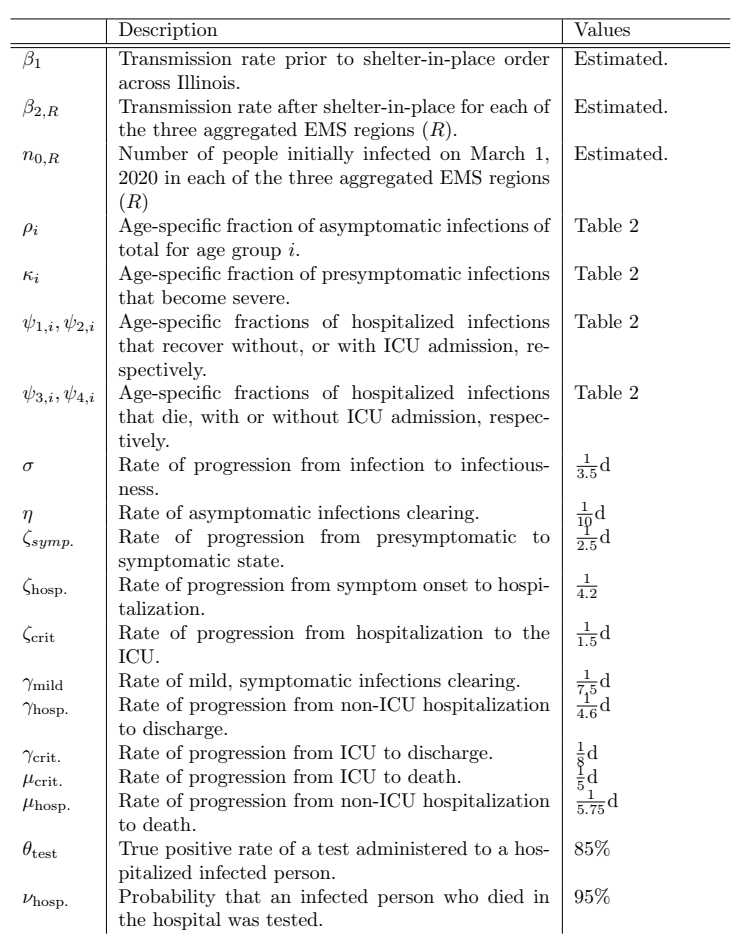
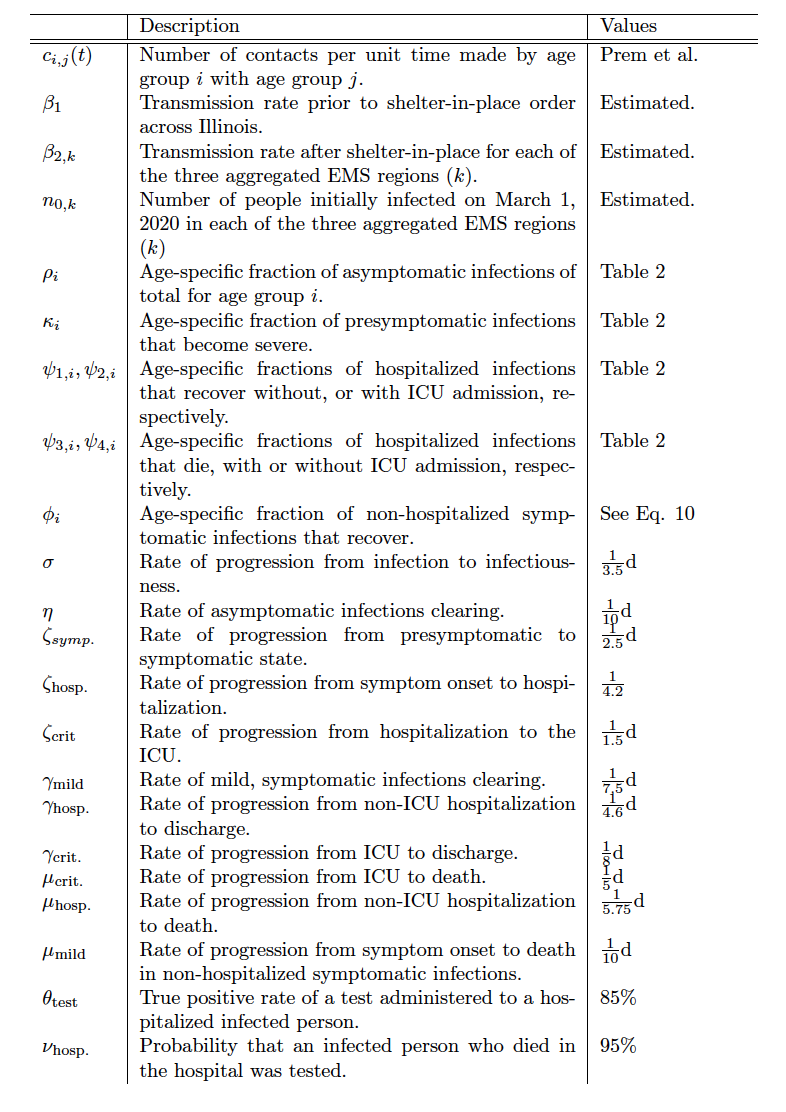
updates to account for outside-of-hospital deaths

diff --git a/Parameters/README.md b/Parameters/README.md
@@ -2,7 +2,7 @@
 
 We informed the value of fixed parameters using recent literature on viral incubation period<sup>1,2,3,4</sup>, serial interval<sup>3,5,6</sup>, infectiousness of mildly symptomatic people<sup>7</sup>, asymptomatic infections<sup>8</sup>, infection fatality rate<sup>9</sup>, case fatality rate<sup>9</sup>, and PCR test sensitivity <sup>10,11</sup>. Parameters that determine how hospitalized people are partitioned (&psi;<sub>1,2,3,4</sub>) and the rates at which they move through the hospital to death or recovery (&zeta;<sub>crit.</sub>, &gamma;<sub>hosp.</sub>, &mu;<sub>crit.</sub>, &mu;<sub>hosp.</sub>) were based on current data from a hospital system in Illinois. 
 
-We used [data from the New York City Department of Health and Mental Hygiene](https://www1.nyc.gov/assets/doh/downloads/pdf/imm/covid-19-deaths-confirmed-probable-weekly-04142020.pdf) to estimate the fraction of COVID-19 deaths that occur outside of the hospital and use this to project the number of non-hospitalized deaths.
+We used [data from the New York City Department of Health and Mental Hygiene](https://www1.nyc.gov/assets/doh/downloads/pdf/imm/covid-19-deaths-confirmed-probable-weekly-04142020.pdf) to inform the parameters that govern the fraction of COVID-19 deaths that occur outside of the hospital.
 
 We are actively reviewing the literature and will update these parameters as better estimates become available.
 

diff --git a/README.md b/README.md
@@ -14,9 +14,8 @@ The model is age-structured, in that compartments are further subdivided into ag
 When individuals are infected, they enter the latent or exposed class (E), where they cannot transmit infections to others (Figure).
 Individuals that enter the asymptomatic class (A) can infect others in the community, but they eventually recover without showing symptoms.
 People who enter the presymptomatic infectious class (P) eventually develop symptoms.
-Symptomatic infections are divided into mild cases, I<sub>M</sub>, which resolve without hospital attention, and severe cases, I<sub>S</sub>, which require hospitalization.
+Symptomatic infections are divided into mild cases, I<sub>M</sub>, which will either resolve without hospital attention or progress to death outside of the hospital, and severe cases, I<sub>S</sub>, which require hospitalization.
 Severe cases can be in the ICU (I<sub>C</sub>) or not (class I<sub>H</sub>), and can die.
-Deaths that occur outside of the hospital are estimated using a scaling factor informed by the model parameters and other information on the frequency of COVID-19 deaths outside hospitals (see [Parameters](./Parameters)).
 
 ![Figure 1](model_diagram.png)
 Rate parameters determine the average amount of time in each compartment.
